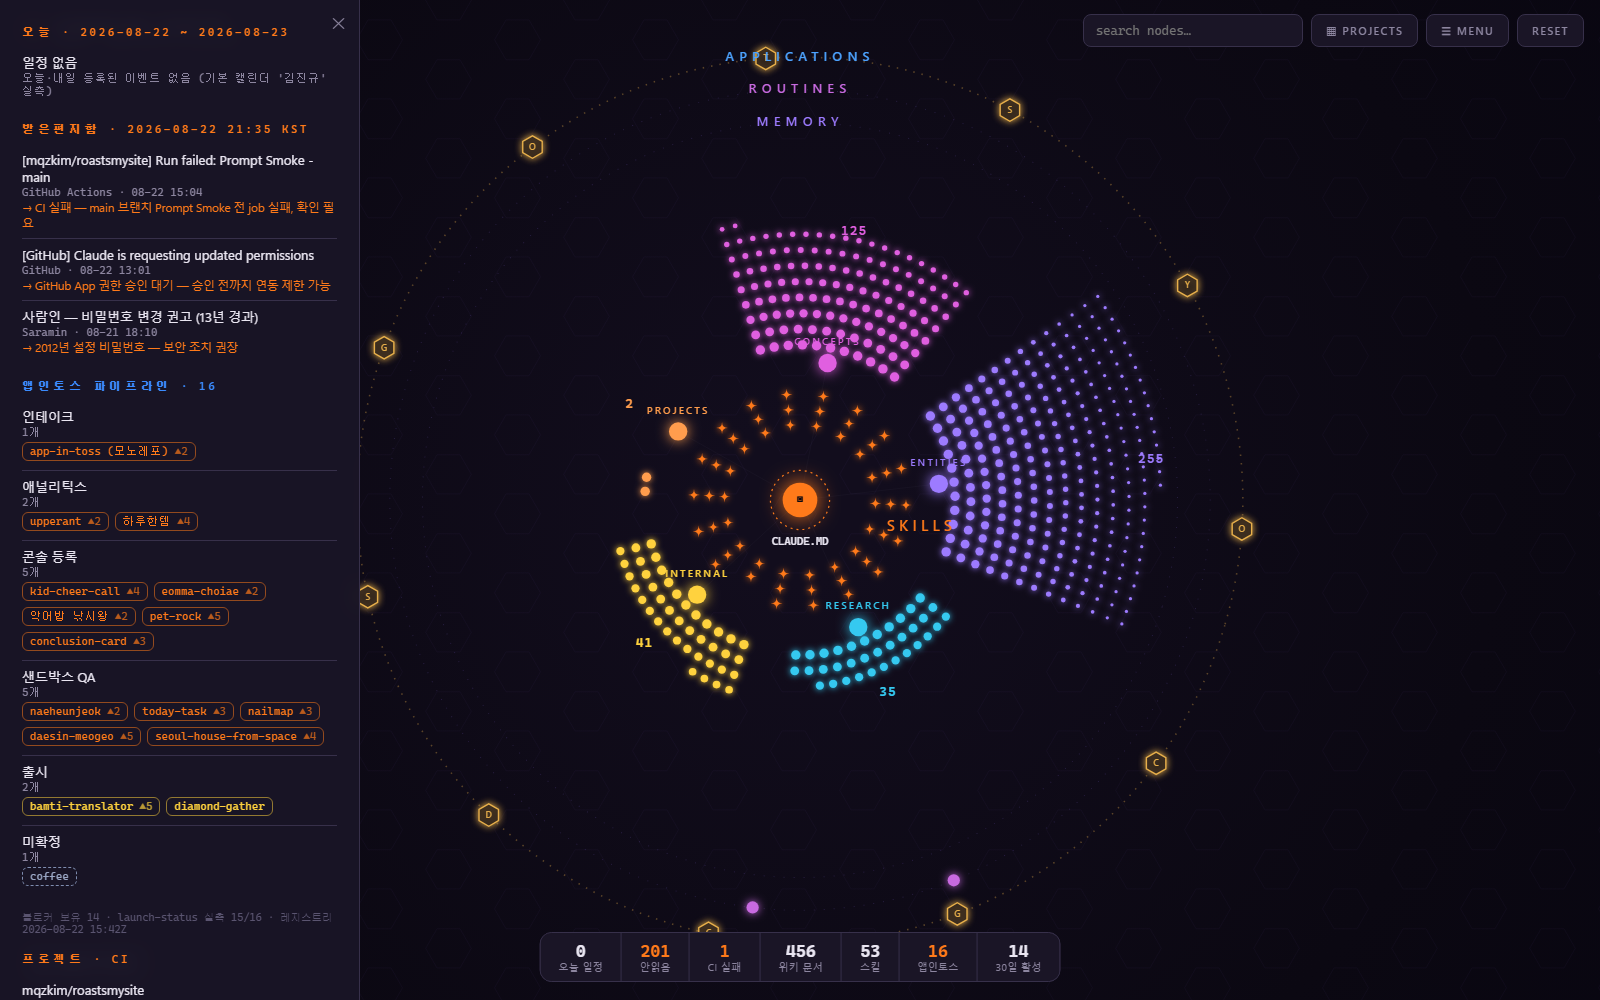
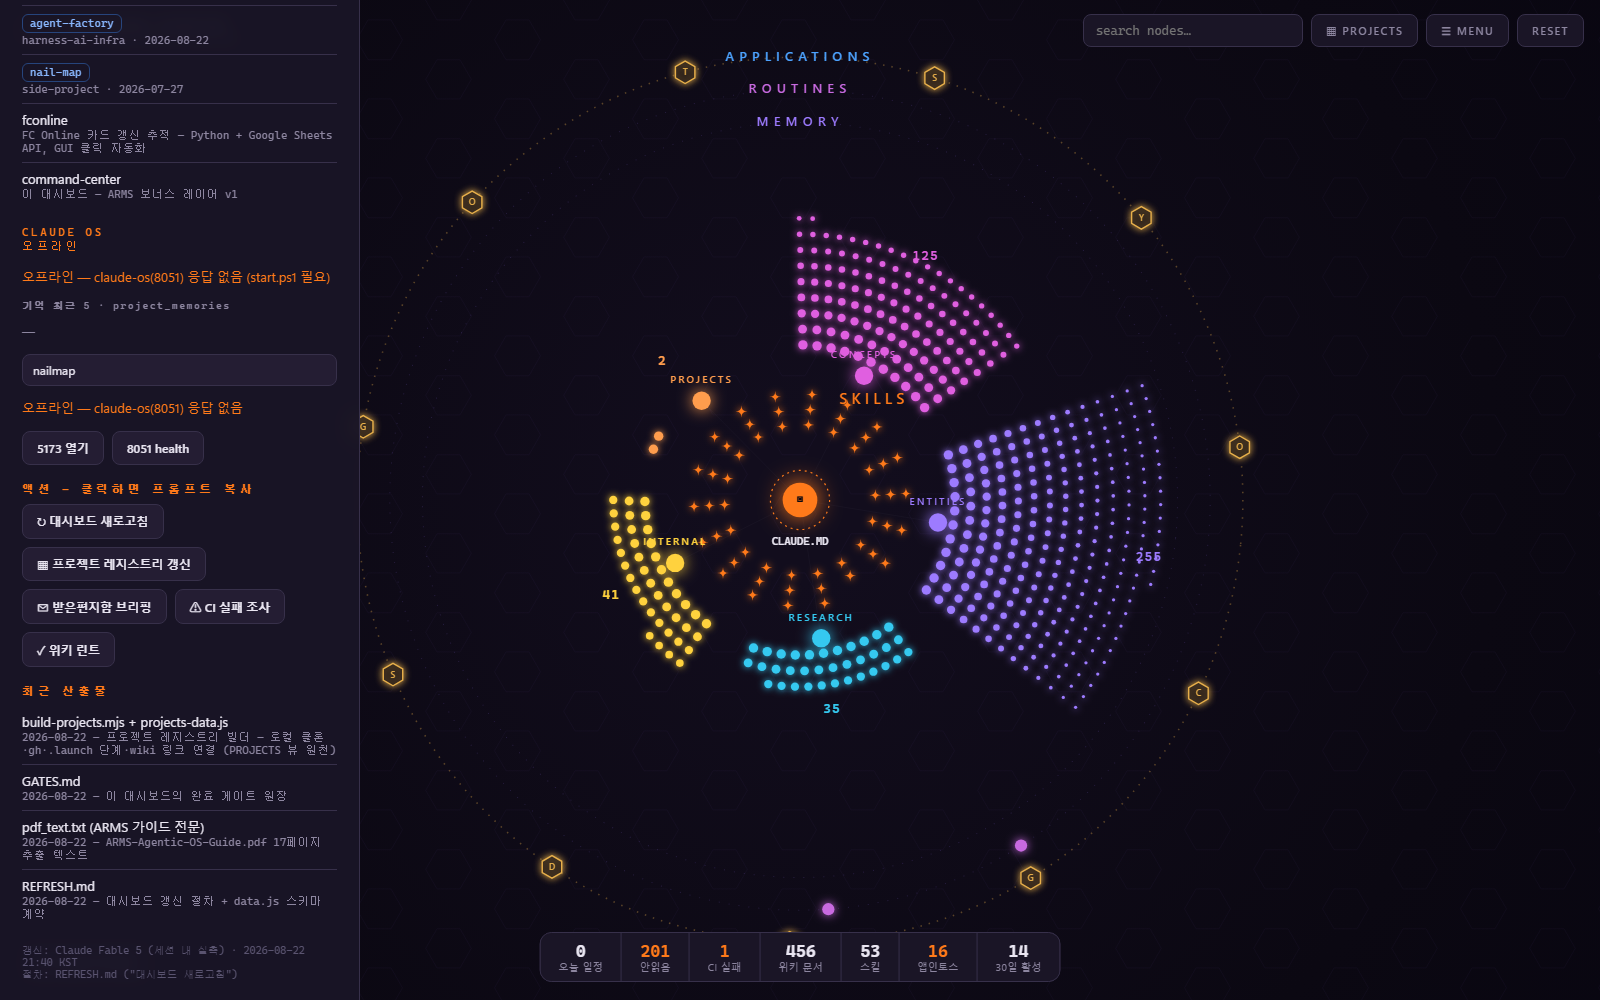
evolve-run: 2026-08-23 pipeline artifacts

diff --git a/dashboard.html b/dashboard.html
@@ -831,7 +831,7 @@ $("#openGh").addEventListener("click", () => { const u = selected && (selected.p
 $("#copyPrompt").addEventListener("click", async () => { if (selected && selected.p) { await copy(projectPrompt(selected.p)); toast("프롬프트 복사됨 — Claude Code에 붙여넣으세요"); } });
 $("#detail").addEventListener("click", e => {
   const cs = e.target.closest("[data-cos-search]");
-  if (cs) { const box = $("#detail").querySelector(`[data-cos-for="${CSS.escape(cs.dataset.cosSearch)}"]`); if (box) cosSearchInto(box, cs.dataset.cosSearch, 5); return; }
+  if (cs) { const box = $("#detail").querySelector(`[data-cos-for="${CSS.escape(cs.dataset.cosSearch)}"]`); if (box) { cosSearchInto(box, cs.dataset.cosSearch, 5); cs.scrollIntoView({ block: "start" }); } return; }
   const a = e.target.closest("[data-open]"); if (!a) return; e.preventDefault(); const n = pjName2node[a.dataset.open]; if (n) openDetail(n); });
 function closeDetail() { selected = null; $("#detail").classList.remove("open"); }
 $("#detail .close").addEventListener("click", closeDetail);
@@ -909,12 +909,12 @@ $("#drawerBody").addEventListener("click", async e => {
   if (q.get("brief") === "1") $("#drawer").classList.add("open");
   if (q.get("cos") === "1") { const b = $("#detail [data-cos-search]"); if (b) b.click(); } /* ?open=<proj>&cos=1 → 상세 "Claude OS 검색" 자동 실행 */
   const cq = q.get("q");
-  if (cq) { $("#drawer").classList.add("open"); $("#cosQ").value = cq; cosSearchInto($("#cosRes"), cq, 8); }
+  if (cq) { $("#drawer").classList.add("open"); $("#cosQ").value = cq; cosSearchInto($("#cosRes"), cq, 8); $("#cosPanel").previousElementSibling.scrollIntoView(); }
 })();
 
 /* ═══════════════ CLAUDE OS 라이브 (8051) — 전부 런타임 fetch, 오프라인 시 명시 렌더, 에러 0 ═══════════════ */
 /* ?cosPort=<n> — 오프라인 렌더 검증용(죽은 포트 지정). 기본 8051 */
-function cosBase() { const p = new URLSearchParams(location.search).get("cosPort"); return "http://localhost:" + (/^d{2,5}$/.test(p || "") ? p : "8051"); }
+function cosBase() { const p = new URLSearchParams(location.search).get("cosPort"); return "http://localhost:" + (/^\d{2,5}$/.test(p || "") ? p : "8051"); }
 async function cosFetch(path, body, ms) {
   const COS = cosBase();
   /* 타임아웃 기본 30s → COS_TIMEOUT 반환(지연 렌더), 연결 실패·비 2xx → null(오프라인 렌더). 인제스트 중 /health 6~18s·search-all ~10s 실측이라 3s는 허위 오프라인 */

diff --git a/projects-data.js b/projects-data.js
@@ -1,7 +1,7 @@
 // 자동 생성 — build-projects.mjs (로컬 클론 스캔 + projects-raw.json(gh) + .launch/launch-status.json + ~/.wiki 링크)
-// 생성: 2026-08-22 15:49Z · 수동 편집 금지 (보정은 projects.overrides.json, 재생성: node build-projects.mjs)
+// 생성: 2026-08-22 15:55Z · 수동 편집 금지 (보정은 projects.overrides.json, 재생성: node build-projects.mjs)
 const CC_PROJECTS = {
- "generatedAt": "2026-08-22 15:49Z",
+ "generatedAt": "2026-08-22 15:55Z",
  "roots": [
   "C:\\workspace",
   "C:\\Users\\my\\workspace"
@@ -81,7 +81,7 @@ const CC_PROJECTS = {
    "remote": "https://github.com/mqzkim/launch-deck.git",
    "lang": null,
    "branch": "main",
-   "dirty": 9,
+   "dirty": 11,
    "lastCommit": "2026-08-23",
    "lastActivity": "2026-08-23",
    "daysSince": 0,
@@ -128,7 +128,7 @@ const CC_PROJECTS = {
    "remote": "https://github.com/mqzkim/command-center.git",
    "lang": "JavaScript",
    "branch": "master",
-   "dirty": 3,
+   "dirty": 5,
    "lastCommit": "2026-08-23",
    "lastActivity": "2026-08-23",
    "daysSince": 0,

diff --git a/gates/l3-wiki-kb.md b/gates/l3-wiki-kb.md
@@ -1,22 +1,28 @@
 # Gates: L3 — ~/.wiki → Claude OS knowledge_docs KB (읽기 전용 미러)
 
 Scope: `sync-wiki-kb.mjs` 신규, `state/wiki-kb-sync.json` 상태 파일. ~/.wiki는 절대 수정하지 않음. refresh-projects.ps1·dashboard·.env 수정 금지(L2가 호출 연결).
+검증 스크립트: `state/verify-wiki-kb.mjs` (`count` | `search`). 실행 로그: `logs/wiki-kb-sync-run{1..5}*.log`.
 
-- [ ] L3-1: `sync-wiki-kb.mjs` — ~/.wiki/**/*.md(node_modules·.git 제외) 전량을 `command-center-knowledge_docs`에 업서트, filename = 상대경로 `/`→`__`. 상태 파일에 {path: mtimeMs}. 결과 stdout `scanned=N upserted=N deleted=N unchanged=N errors=0`
+- [x] L3-1: `sync-wiki-kb.mjs` — ~/.wiki/**/*.md(node_modules·.git 제외) 전량을 `command-center-knowledge_docs`에 업서트, filename = 상대경로 `/`→`__`. 상태 파일에 {path: mtimeMs}. 결과 stdout `scanned=N upserted=N deleted=N unchanged=N errors=0`
   CHECK: node C:/workspace/command-center/sync-wiki-kb.mjs
   EXPECT: /errors=0/
-  EVIDENCE: pending
+  EVIDENCE: 2026-08-23 run4 `scanned=570 upserted=0 deleted=0 unchanged=570 errors=0` (elapsed 0.2s). 초기 전량은 run1(504/565 성공, 61건 `fetch failed`)+run2(63건)+run3(18건, errors=0) 3회에 걸쳐 완료 — 실패 원인은 문서 크기가 아니라 claude-os 서버 리스너 사망(아래 미해결 #1). 최대 문서 log.md 136,800B·index.md 56,162B·raw/2026-04-14-agentic-rag-landscape.md 35,797B 모두 재시도에서 성공. 스크립트: API는 `127.0.0.1`(Node의 localhost→::1 폴백이 ~50s 실측), 동시 2(기본, `WIKI_KB_CONCURRENCY`로 조정), 네트워크 오류 4회 백오프 재시도, 실패는 `failed: [{rel,bytes,error}]`로 stdout 기록·errors 카운트.
 
-- [ ] L3-2: KB 문서 수 = 디스크 md 수 (build-galaxy 기준 447±, 실측 숫자 기재)
-  CHECK: node -e "const fs=require('fs'),p=require('path');let n=0;(function w(d){for(const e of fs.readdirSync(d,{withFileTypes:true})){if(e.isDirectory()){if(e.name!=='node_modules'&&!e.name.startsWith('.'))w(p.join(d,e.name))}else if(e.name.endsWith('.md'))n++}})(require('os').homedir()+'/.wiki');fetch('http://localhost:8051/api/kb/command-center-knowledge_docs/documents').then(r=>r.json()).then(j=>{const k=(j.documents||j).length;console.log(k,n,k===n?'COUNT_OK':'MISMATCH')})"
+- [x] L3-2: KB 문서 수 = 디스크 md 수 (build-galaxy 기준 447±, 실측 숫자 기재)
+  CHECK: node -e "const fs=require('fs'),p=require('path');let n=0;(function w(d){for(const e of fs.readdirSync(d,{withFileTypes:true})){if(e.isDirectory()){if(e.name!=='node_modules'&&!e.name.startsWith('.'))w(p.join(d,e.name))}else if(e.name.endsWith('.md'))n++}})(require('os').homedir()+'/.wiki');fetch('http://127.0.0.1:8051/api/kb/command-center-knowledge_docs/documents').then(r=>r.json()).then(j=>{const k=(j.documents||j).length;console.log(k,n,k===n?'COUNT_OK':'MISMATCH')})"
   EXPECT: COUNT_OK
-  EVIDENCE: pending
+  EVIDENCE: `node state/verify-wiki-kb.mjs count` → `kb_docs=570 disk_md=570 chunks=5247 COUNT_OK`; 원 CHECK(localhost)도 `570 570 COUNT_OK`. 디스크 실측 570(447±은 build-galaxy가 _librarian/raw/src/test 등을 세지 않은 값; 본 미러는 점 디렉토리·node_modules만 제외). 작업 중 위키가 565→570으로 증가(librarian이 쓰는 중)한 것도 증분이 그대로 따라감.
 
-- [ ] L3-3: 증분 — 2회째 실행은 unchanged=전체, upserted=0. 테스트: 상태 파일에서 항목 1개 mtime을 0으로 바꾼 뒤 실행 → upserted=1 (위키 파일은 건드리지 않음)
-  EVIDENCE: pending
+- [x] L3-3: 증분 — 2회째 실행은 unchanged=전체, upserted=0. 테스트: 상태 파일에서 항목 1개 mtime을 0으로 바꾼 뒤 실행 → upserted=1 (위키 파일은 건드리지 않음)
+  EVIDENCE: run4(무변경) `scanned=570 upserted=0 deleted=0 unchanged=570 errors=0`. run5: state의 `concepts/hook-system.md` mtime 1787413619440.874→0 으로 변경 후 실행 → `scanned=570 upserted=1 deleted=0 unchanged=569 errors=0` (25.6s), 상태값 1787413619440.874로 복원. 위키 파일 mtime 2026-08-23 00:46:59.440874100 실행 전후 동일(stat 실측). 로그 `logs/wiki-kb-sync-run5-mtime0.log`.
 
 - [ ] L3-4: 검색 정합 — search-all "Ralph Wiggum Loop" top1이 concepts 해당 문서, "apps in toss launch contract" top3에 apps-in-toss-front-loaded-launch-contract 포함
-  EVIDENCE: pending
+  EVIDENCE: FAIL(claude-os 측 원인, L3 범위 밖). `POST /api/kb/search-all {query, top_k:5, kb_filter:"command-center-knowledge_docs"}` — kb_filter는 prefix 필터로 동작 확인(kbs_searched=1). 결과는 청크 단위(같은 filename 중복). "Ralph Wiggum Loop" top1~5 = `concepts__rubric-ceiling-generic-troubleshooting.md` (score 0.994, 본문에 ralph 0회); `concepts__ralph-wiggum-loop.md` 최고 청크 0.609. "apps in toss launch contract" top5 = portfolio-snapshot-aggregation 0.720 / _librarian__lint-queue 0.710 / non-game-anonymous-leaderboard 0.696 / log.md 0.691 / rewarded-ad-release-gate 0.688 — front-loaded-launch-contract 미포함. 두 문서 모두 KB에 존재 확인(documents 목록). 근본 원인(실측): `app/core/ingestion.py chunk_document`가 `Document(text, metadata)`를 `SentenceSplitter(512)`에 그대로 넘겨 LlamaIndex가 metadata 문자열(preprocess_markdown이 frontmatter를 `fm_*`로 복사, 해당 문서 1,053자)을 chunk 예산에서 차감 → rubric-ceiling 문서는 12~25자 청크 139개(metadata 제외 시 2개, 로컬 재현). 초소형 청크 임베딩은 어떤 질의와도 cosine 0.99. 같은 증상 문서: smallest-ratchet-conditional-relaxation(102청크, 평균 87자), critic-blind-spots(96청크). 제안 패치(claude-os, L1/부모 판단): `chunk_document`에서 `Document(text=text, metadata=metadata, excluded_embed_metadata_keys=list(metadata), excluded_llm_metadata_keys=list(metadata))` 또는 `SentenceSplitter(..., include_metadata=False)`. 패치 후 `state/wiki-kb-sync.json` 삭제 → `node sync-wiki-kb.mjs`로 전량 재임포트 → `node state/verify-wiki-kb.mjs search`로 재검증.
 
-- [ ] L3-5: 소요 시간·임베딩 경로 기록(Ollama nomic-embed-text 로컬), 전량 임포트 시간(초) 실측. 1000문서까지 선형이면 증분 전략으로 충분함을 수치로 기재
-  EVIDENCE: pending
+- [x] L3-5: 소요 시간·임베딩 경로 기록(Ollama nomic-embed-text 로컬), 전량 임포트 시간(초) 실측. 1000문서까지 선형이면 증분 전략으로 충분함을 수치로 기재
+  EVIDENCE: 임베딩 경로 = claude-os `ingest_file` → `OllamaEmbedding(nomic-embed-text:latest, http://localhost:11434)`(server.err.log의 `POST /api/embed` 로그로 확인), 서버 핸들러 안에서 동기 실행(이벤트루프 차단). 실측: run1 565건 시도 중 504건 성공 1368.1s(동시 4, L2 sync 동시 진행) ≈ 2.7s/문서; run3 18건 96.4s(동시 2) ≈ 5.4s/문서; run5 1건 25.6s(6청크 문서, hook-system.md). 총 5,247청크. 문서당 시간은 청크 수에 비례(=문서 길이·frontmatter 양)하고 문서 수에 선형 → 1000문서 전량 ≈ 45~90분(동시 2~4). 무변경 재실행 0.2s, 1건 변경 ~25s → 증분 전략으로 충분(전량 재임포트는 chunking 패치 등 파생물 규칙이 바뀔 때만).
+
+## 미해결 (L3 범위 밖 — 부모/L1 판단 필요)
+1. **claude-os 서버 리스너 사망 2회(00:44:10, 00:50:14)**: `server.err.log` `asyncio - ERROR - Accept failed on a socket / OSError [WinError 64]` → Python ProactorEventLoop(`proactor_events._start_serving`)가 리스닝 소켓을 닫음. 프로세스는 살아있고(스레드 1, CPU 0) 8051·5173 모두 무응답. 트리거: 동기 ingest로 루프가 막힌 사이 다른 클라이언트(00:50:14 직전 `GET /api/kb` = 대시보드 폴링/타임아웃 abort)가 연결을 RST. L3가 `stop.ps1`→`start.ps1`로 2회 재기동(설정 변경 없음). 제안: `mcp_server/server.py` `uvicorn.run` 전에 `asyncio.set_event_loop_policy(asyncio.WindowsSelectorEventLoopPolicy())` 또는 ingest를 `run_in_threadpool`로 이동.
+2. **chunking metadata 인플레이션**(L3-4 참조) — 검색 품질 전반에 영향. 패치는 claude-os.
+3. `documents/content`의 `metadata` 필드는 서버가 무시(`ingest_file(tmp, kb, filename)`만 전달). 스크립트는 계약대로 {path, category, title, mtime}을 보내지만 KB metadata에는 남지 않음.

diff --git a/gates/l4-claude-os-patch.md b/gates/l4-claude-os-patch.md
@@ -1,0 +1,23 @@
+# Gates: L4 — claude-os 패치 (리스너 사망 · 청킹 metadata 인플레이션) + 전량 재임포트
+
+Scope: `C:\workspace\claude-os` 내부만(`mcp_server/server.py`, `app/core/ingestion.py`). command-center 파일은 `gates/l4-claude-os-patch.md`와 `state/wiki-kb-sync.json` 삭제만.
+
+- [ ] L4-1: 청킹 패치 — `chunk_document`가 metadata를 임베딩/청크 예산에서 제외. 재현 테스트: `concepts/rubric-ceiling-generic-troubleshooting.md` 로컬 chunk 수가 139 → 5 이하
+  EVIDENCE: pending
+
+- [ ] L4-2: 리스너 사망 패치 — 동기 ingest를 threadpool로 이동(`run_in_threadpool`) 또는 SelectorEventLoop 정책. 재현 테스트: ingest 4개 동시 진행 중 `GET /api/kb` 20회 연속 + abort 5회 → 서버 생존, /health 200
+  EVIDENCE: pending
+
+- [ ] L4-3: 재기동 후 회귀 — pytest `tests`에서 패치 전 통과 수 이상(이전 587 passed 기준, Windows 특성 실패 7건 제외) · /health healthy · 5173 200
+  CHECK: curl -s http://127.0.0.1:8051/health
+  EXPECT: /"status":"healthy"/
+  EVIDENCE: pending
+
+- [ ] L4-4: knowledge_docs 전량 재임포트 — state 삭제 → `node sync-wiki-kb.mjs` errors=0, 문서 수 = 디스크 md 수, 총 청크 수가 패치 전 5,247보다 유의미하게 감소(초소형 청크 제거) — 실측 수치 기재
+  EVIDENCE: pending
+
+- [ ] L4-5: 검색 정합(L3-4 재검증) — "Ralph Wiggum Loop" top1 = concepts__ralph-wiggum-loop.md, "apps in toss launch contract" top3에 apps-in-toss-front-loaded-launch-contract 포함. `node state/verify-wiki-kb.mjs search` 출력 첨부. 통과 시 gates/l3-wiki-kb.md의 L3-4도 [x]로 갱신
+  EVIDENCE: pending
+
+- [ ] L4-6: project_index도 재임포트(`node sync-claude-os.mjs`, L2 산출물이 있으면) 후 "nailmap 블로커" top1 = project-nailmap.md
+  EVIDENCE: pending
